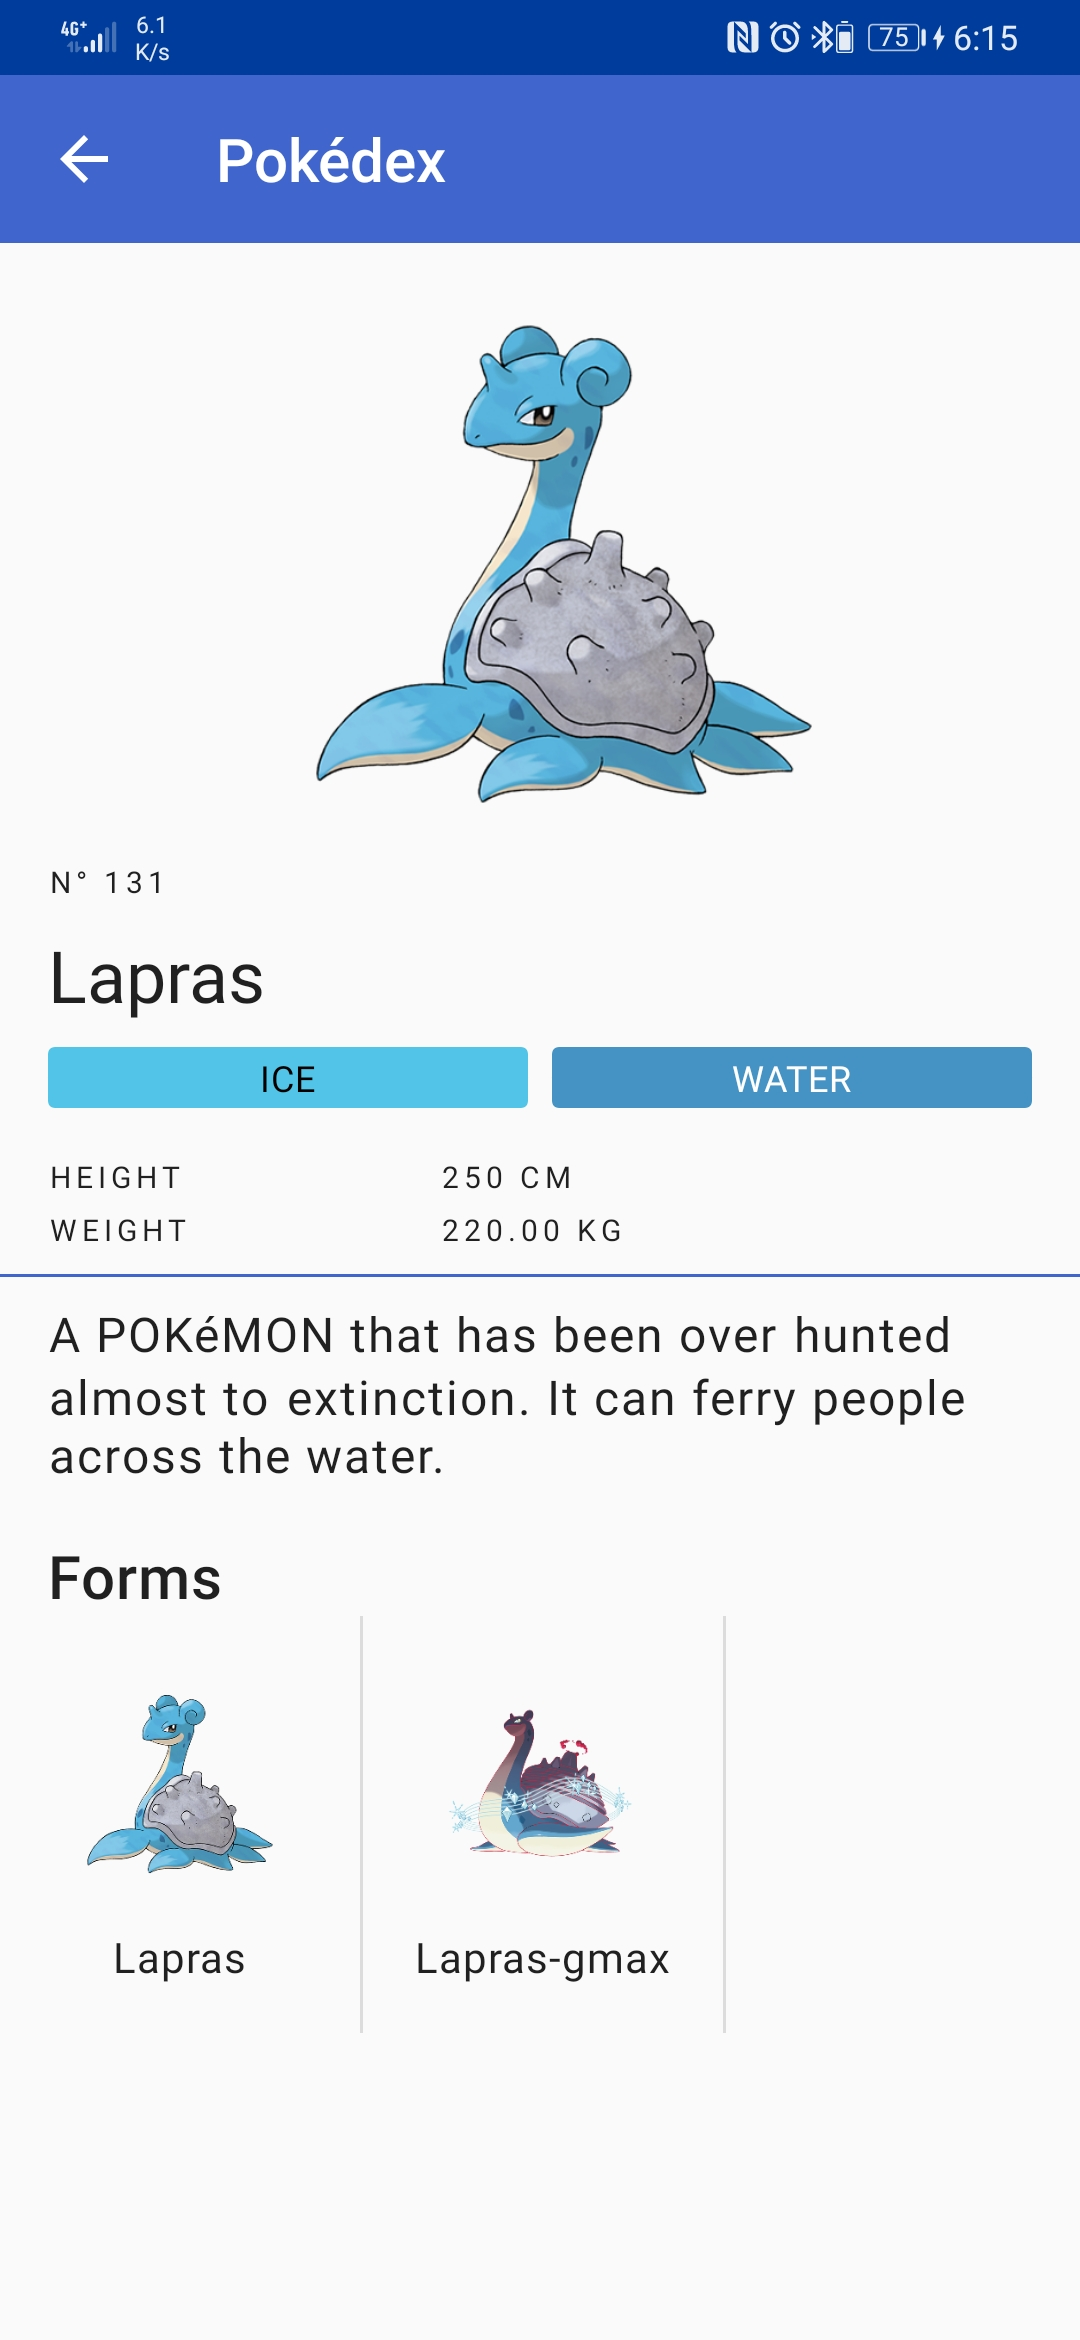
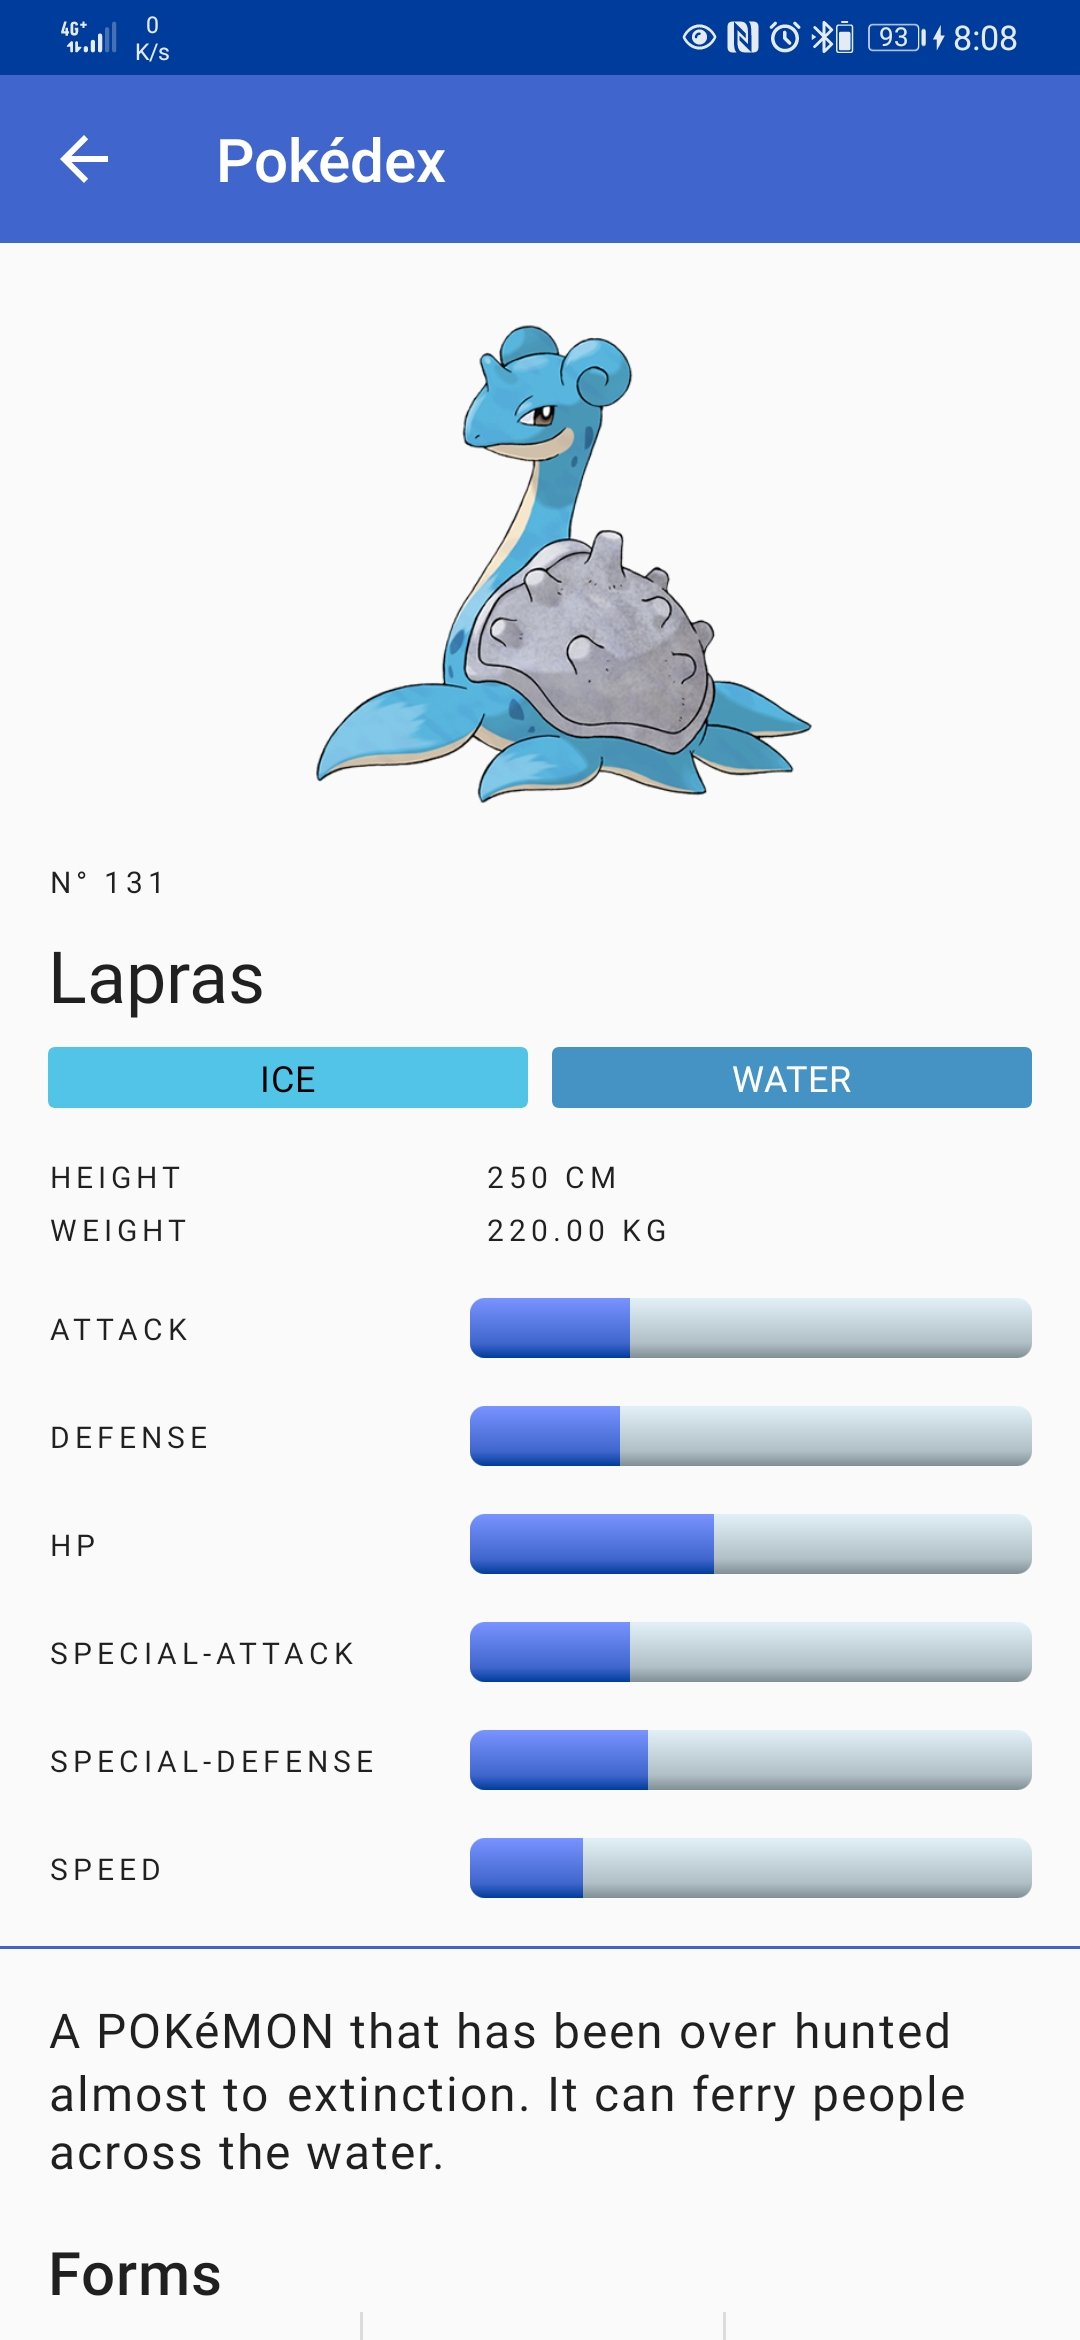
Stats - Updated screenshots and README

diff --git a/README.md b/README.md
@@ -3,9 +3,10 @@
 Clean Architecture playground project displaying list of pokémon.
 
 <p align="center">
-<img src="/screenshots/app_navigation.gif" align="left" width="250"/>
-<img src="/screenshots/list.jpg" align="center" width="250"/>
-<img src="/screenshots/detail.jpg" align="right" width="250"/>
+<img src="/screenshots/app_navigation.gif" align="left" width="200"/>
+<img src="/screenshots/list.jpg" align="center" width="200"/>
+<img src="/screenshots/detail.jpg" align="right" width="200"/>
+<img src="/screenshots/detail_gmax.jpg" align="right" width="200"/>
 </p>
 
 Based on [PokeApi](https://pokeapi.co)
